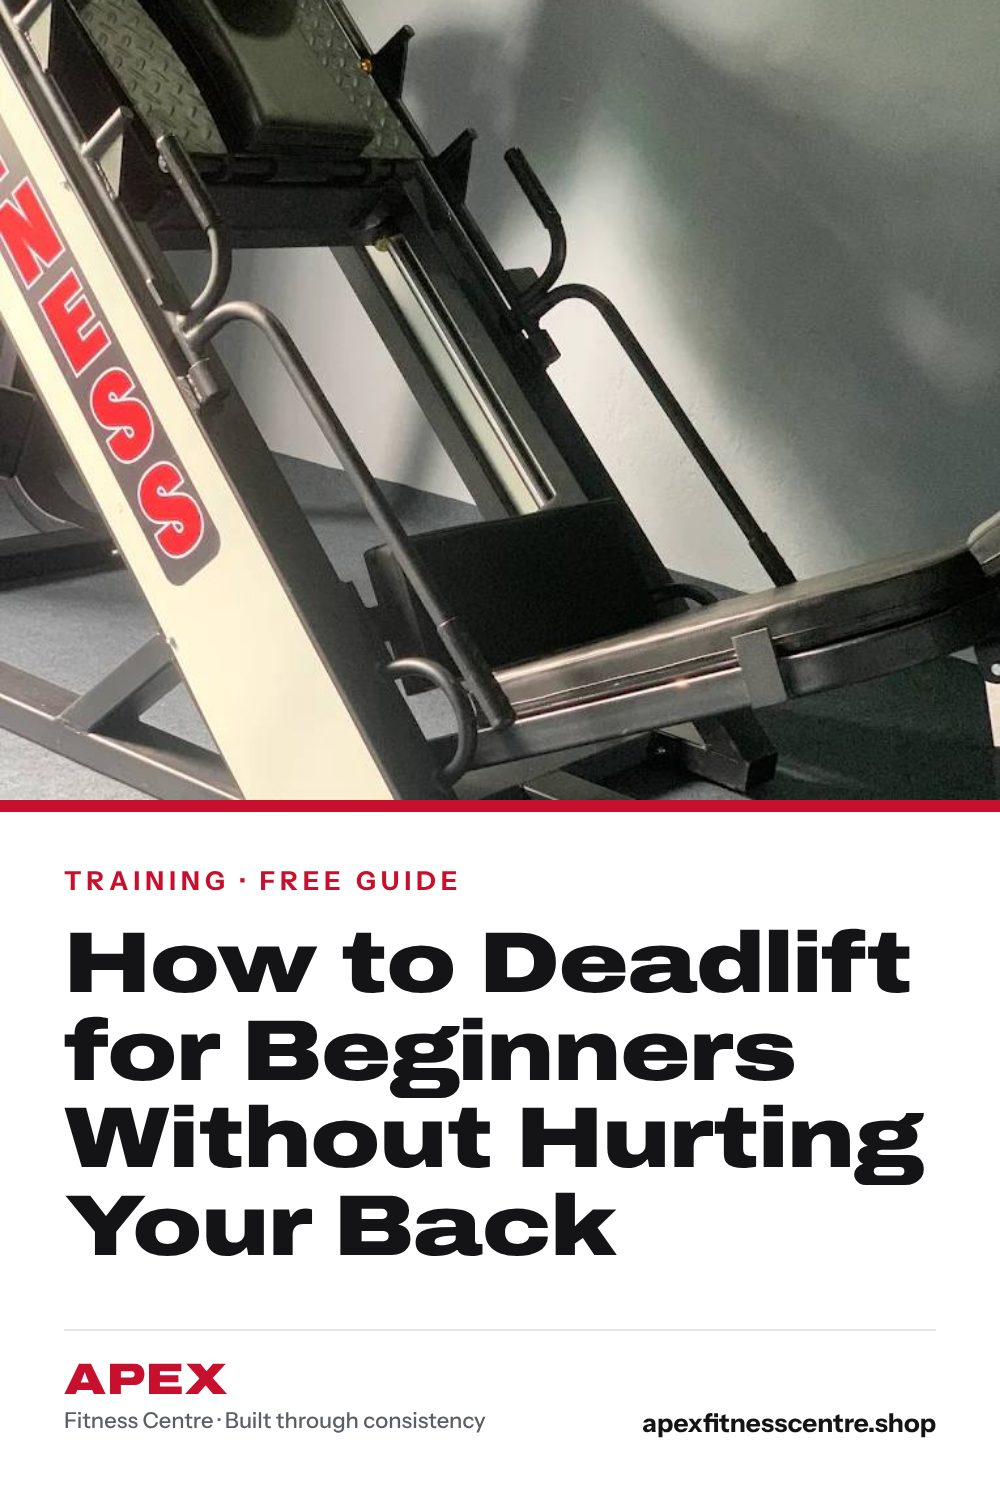
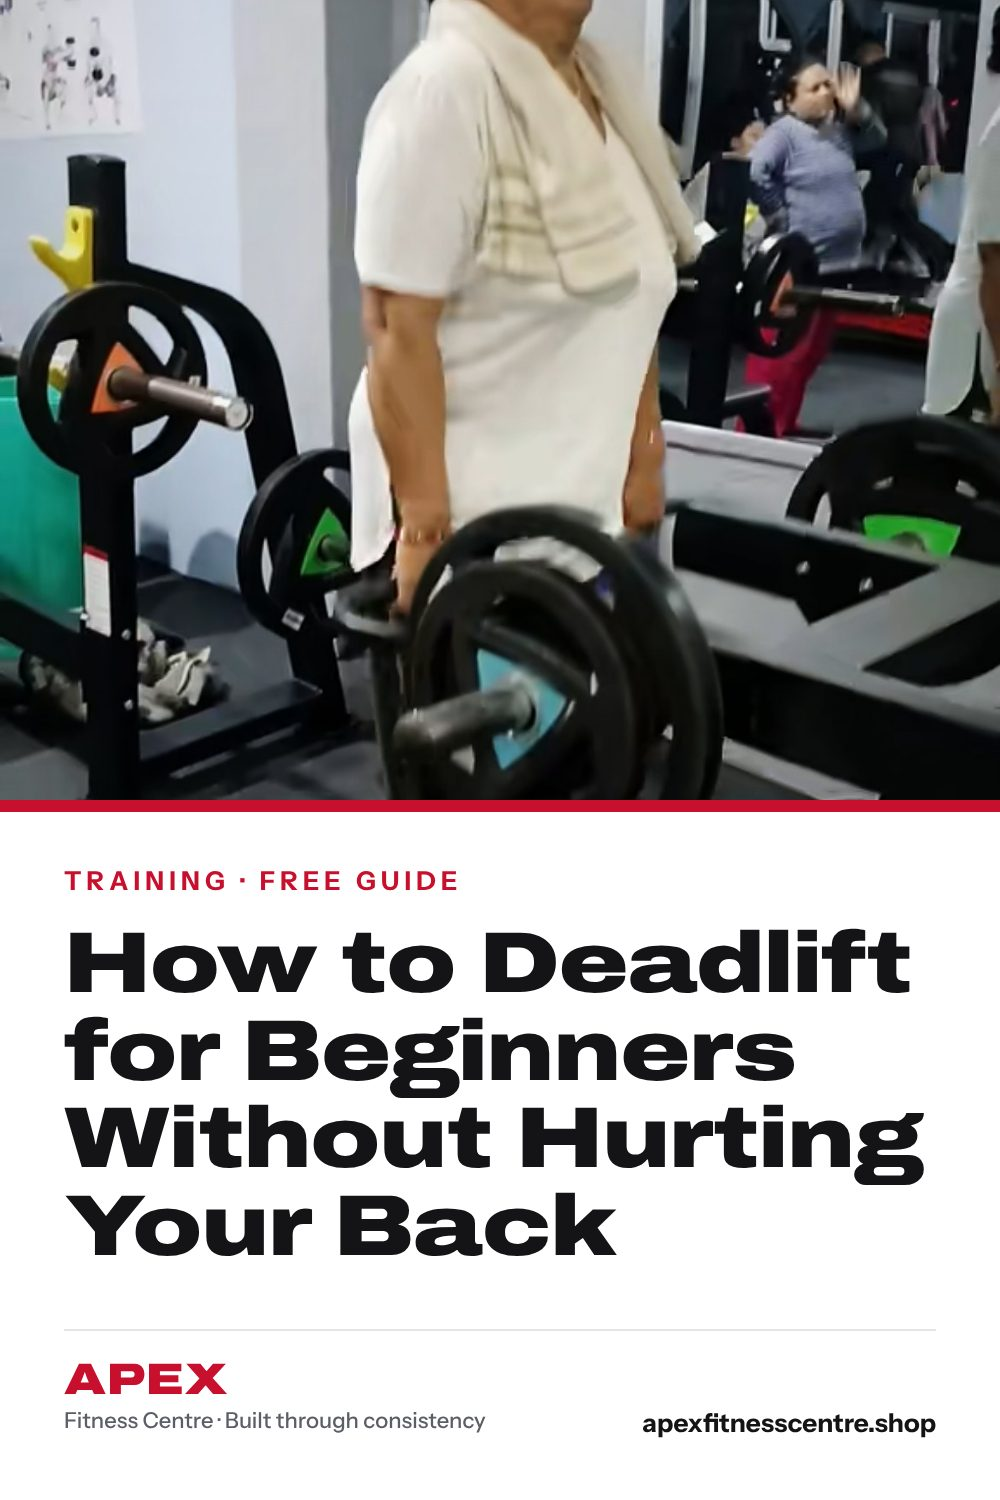
Deadlift post: use a real deadlift photo for cover and pin
Claude-Session: https://claude.ai/code/session_01JNW6nt5bhSXPhUjgziTQdb

diff --git a/source/content/blog/2026-11-03-how-to-deadlift-for-beginners.md b/source/content/blog/2026-11-03-how-to-deadlift-for-beginners.md
@@ -5,8 +5,8 @@ description: The deadlift is safe when done right. Learn the setup, hip hinge, b
 date: 2026-11-03
 category: Training
 author: suman-limbu
-cover_photo: assets/gym-plate-loaded.jpg
-image_alt: Strength training equipment at Apex Fitness Centre
+cover_photo: apex-woman-lifting-loaded-bar.jpg
+image_alt: A member at the top of a barbell deadlift at Apex Fitness Centre, Urlabari
 ---
 
 The deadlift has a scary reputation, but done with good form it is one of the **best exercises for a strong back, glutes, hamstrings and grip**, and for real-life strength, every time you pick something up from the floor. Back injuries usually come from **rounding the lower back, jerking the weight, or lifting too heavy too soon**. All three are avoidable.
